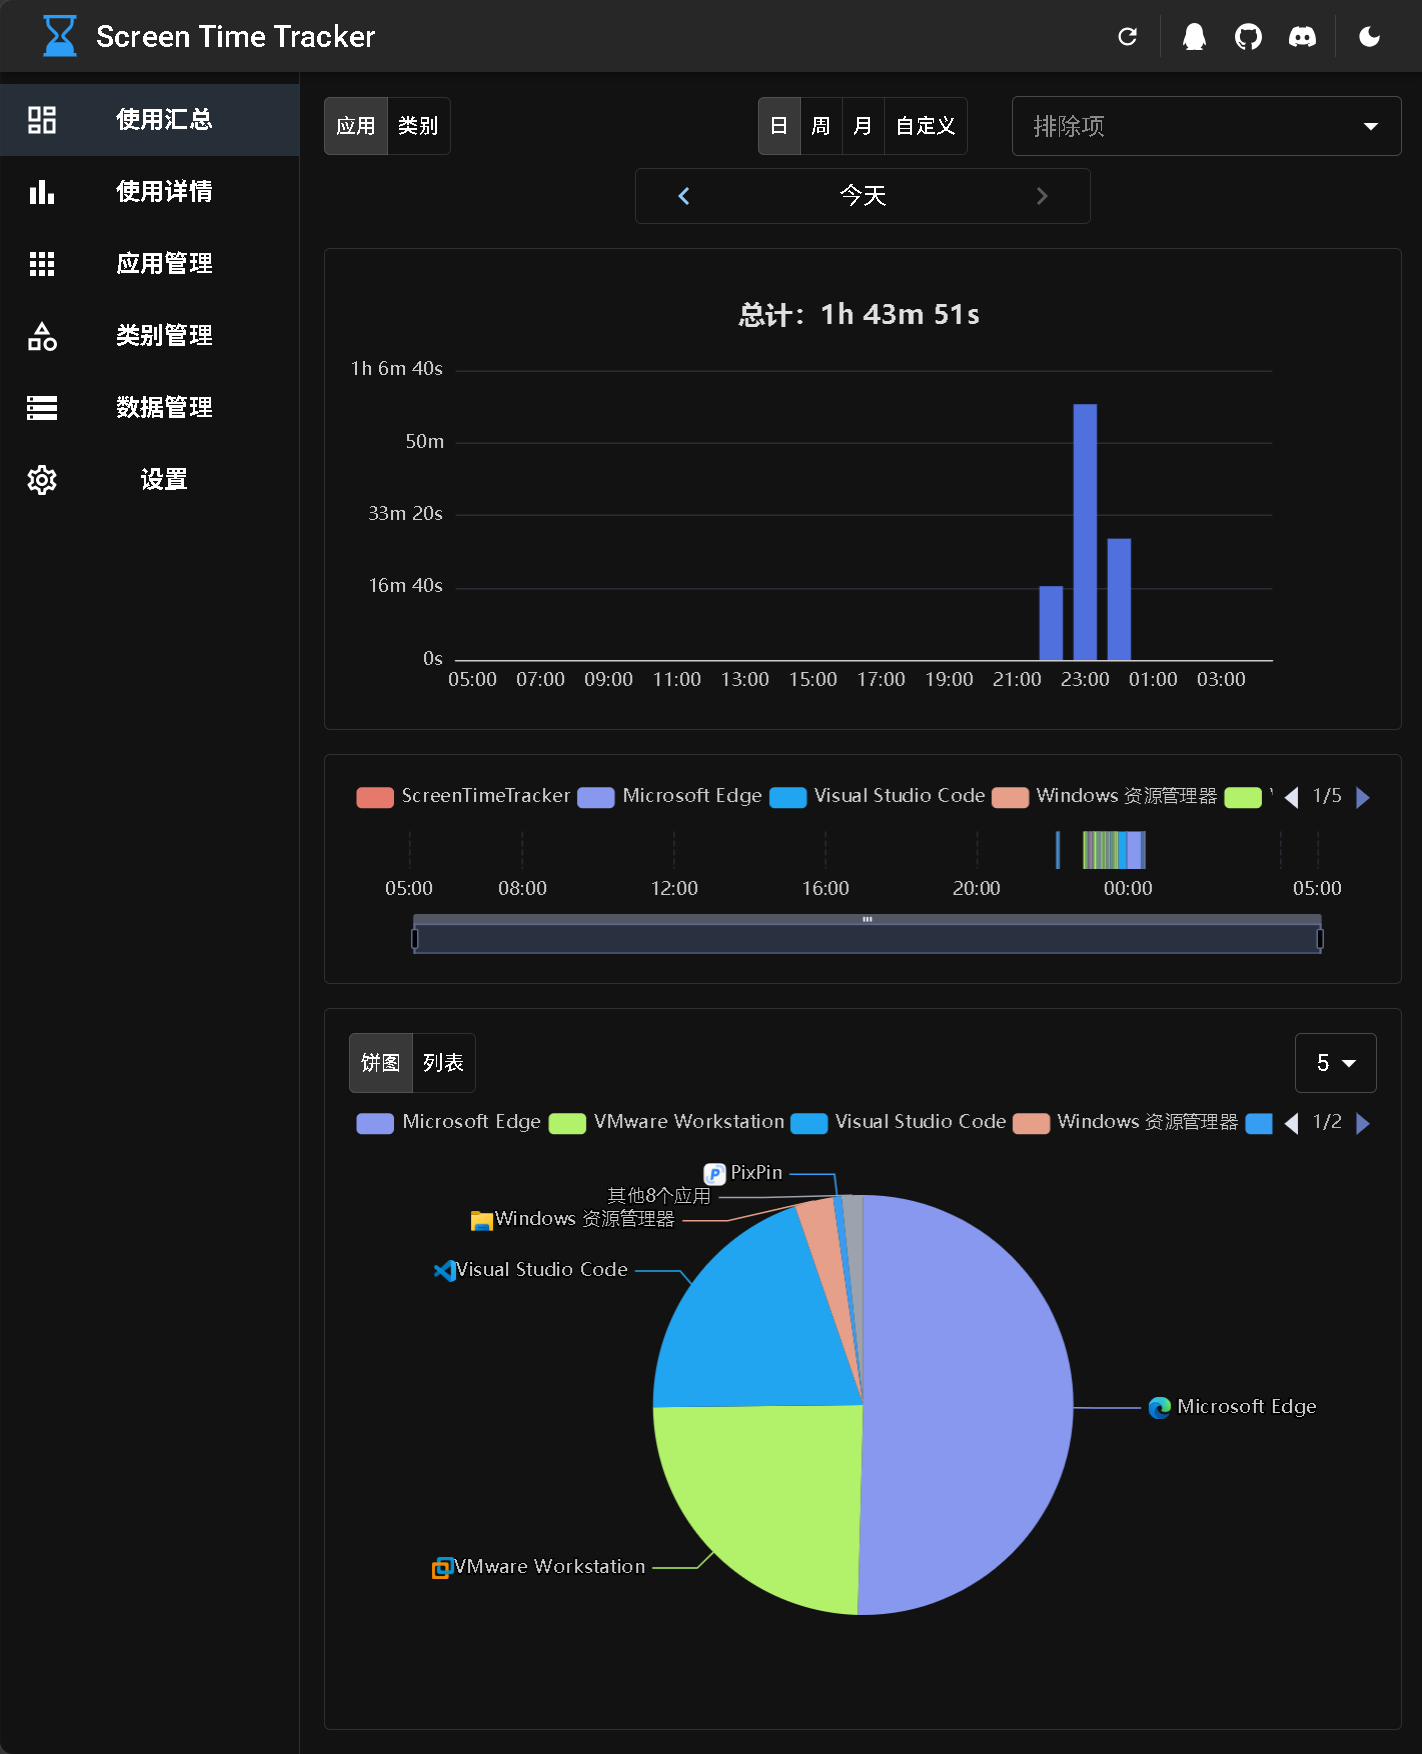
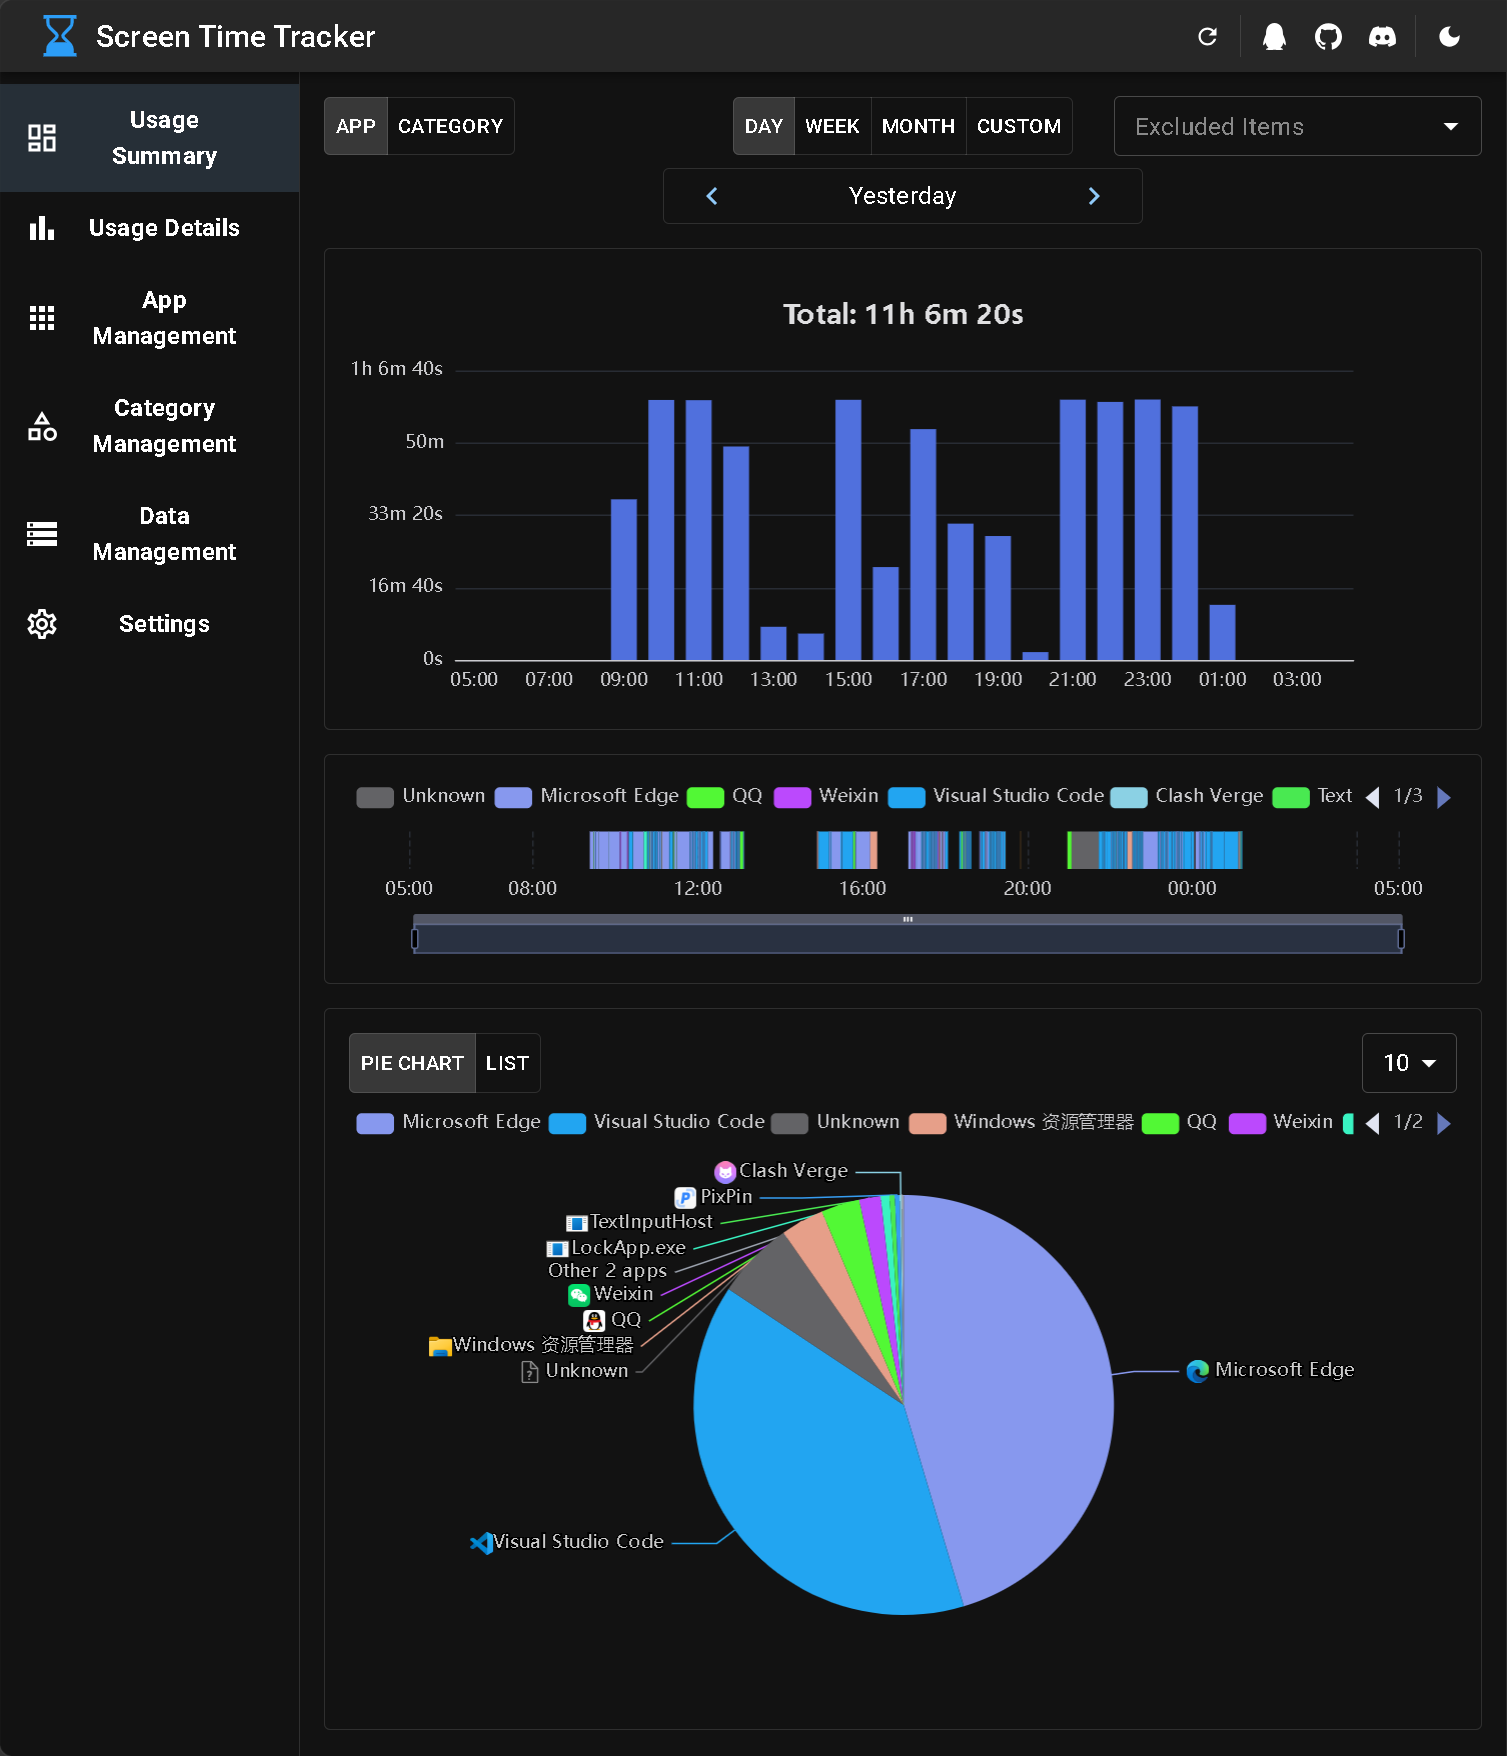
更新 README.md

diff --git a/README.md b/README.md
@@ -1,38 +1,53 @@
-# 屏幕使用时间  
+<div align="center">
 
-## 简介  
-一个电脑屏幕使用时间统计工具。
+# Screen Time Tracker
 
-![alt text](assets/screenshot1.png)
+**English** | [简体中文](README_zh-CN.md)
 
-## 联系方式
-QQ群：745018774
+[![Discord](https://img.shields.io/badge/Discord-Join%20Community-5865f2?style=flat&logo=discord)](https://discord.gg/PxqGwcsVuh) [![QQ Group](https://img.shields.io/badge/QQ%20Group-Join%20Group-1ebafc?style=flat&logo=qq)](https://qm.qq.com/q/uiwJZiQRAm)
 
-### 功能
-- 统计电脑上不同应用占据最上层窗口时的时间。
-- 开启空闲检测后可在长时间未操作时停止记录。
-- 支持自定义每天开始和结束的时间。
-- 展示数据时可排除指定程序/类别。。
-- 可以详细查看某程序/类别的使用情况
-- 可以查看某天使用情况的时间线。
-- 可方便的设置开机自启动。
+</div>
 
-## 开发
-+ 准备环境
-  + .NET SDK 10.0+
-  + Node.js 22.12.0+
-+ 克隆代码库：
+## Overview
+An intuitive and lightweight desktop screen time tracking tool designed to help you understand your computer usage habits, boost productivity, and maintain a healthy work-life balance.
+
+![Screen Time Tracker Screenshot 1](assets/screenshot1.png)
+![Screen Time Tracker Screenshot 2](assets/screenshot2.png)
+
+## Key Features
+- **Time Tracking**: Runs silently in the background, accurately recording the duration spent on each application.
+- **Visual Analytics**: Provides a rich variety of intuitive charts and statistics, allowing you to clearly understand your time distribution.
+- **Privacy First**: All data is stored locally and never uploaded to the cloud, guaranteeing your personal privacy.
+- **Lightweight & Efficient**: Ultra-low CPU and RAM usage, ensuring it won't impact your daily experience.
+- **Highly Configurable**: Offers detailed configuration options to cater to different user requirements.
+- **Multilingual Support**: Native support for both English and Simplified Chinese interfaces.
+
+## Download
+You can download the application from [Releases](https://github.com/majianchuan/ScreenTimeTracker/releases) or build it yourself.
+
+## Development
+- **Prerequisites**
+  - .NET SDK 10.0+
+  - Node.js 22.12.0+
+- **Clone Repository**:
   ```shell
-    git clone https://github.com/majianchuan/ScreenTimeTracker.git
+  git clone https://github.com/majianchuan/ScreenTimeTracker.git
   ```
-+ 构建界面库：
+- **Build Frontend**:
   ```shell
   cd src/frontend
   pnpm install
   pnpm build
   ```
-+ 启动应用：
+- **Run Application**:
   ```shell
   cd ../Hosts/Desktop
   dotnet run
   ```
+
+## Community & Feedback
+
+If you encounter any issues or have feedback and suggestions, feel free to join our community:
+
+- **Discord Community**: [Join Discord](https://discord.com/invite/PxqGwcsVuh)
+- **QQ Group**: [Join QQ Group](https://qm.qq.com/q/uiwJZiQRAm)

diff --git a/README_zh-CN.md b/README_zh-CN.md
@@ -1,0 +1,54 @@
+<div align="center">
+
+# Screen Time Tracker
+
+[English](README.md) | **简体中文**
+
+[![Discord](https://img.shields.io/badge/Discord-加入社区-5865f2?style=flat&logo=discord)](https://discord.gg/PxqGwcsVuh) [![QQ 群](https://img.shields.io/badge/QQ%20%E7%BE%A4-加入群聊-1ebafc?style=flat&logo=qq)](https://qm.qq.com/q/uiwJZiQRAm)
+
+</div>
+
+## 简介
+一款直观、轻量级的桌面端屏幕使用时间统计工具，助你掌握电脑使用习惯、提升工作效率，保持健康的工作与生活平衡。
+
+![Screen Time Tracker 截图1](assets/screenshot1_zh-CN.png)
+![Screen Time Tracker 截图2](assets/screenshot2_zh-CN.png)
+
+## 核心功能
+- **时长统计**：后台静默运行，精准记录各个软件的使用时长。
+- **可视化数据分析**：提供种类丰富且直观的时长统计图表，清晰掌握时间分配。
+- **注重隐私安全**：所有数据均存储在本地，不上传云端，保障个人隐私。
+-  **轻量高效**：极低占用内存与 CPU，不影响日常使用体验。
+-  **高度可配置**：提供了详细的配置选项，满足不同用户的需求。
+- **多语言支持**：原生支持中文与英文界面。
+
+## 下载
+您可以通过 [Releases](https://github.com/majianchuan/ScreenTimeTracker/releases) 下载软件或自行构建。
+
+## 开发
+- 准备环境
+  - .NET SDK 10.0+
+  - Node.js 22.12.0+
+- 克隆代码库：
+  ```shell
+    git clone https://github.com/majianchuan/ScreenTimeTracker.git
+  ```
+- 构建前端界面：
+  ```shell
+  cd src/frontend
+  pnpm install
+  pnpm build
+  ```
+- 启动应用：
+  ```shell
+  cd ../Hosts/Desktop
+  dotnet run
+  ```
+
+## 交流与反馈
+
+如果你在使用过程中遇到问题，或者有任何好的建议，欢迎加入我们的社群交流：
+
+- **Discord 社区**：[点击加入 Discord](https://discord.com/invite/PxqGwcsVuh)
+- **QQ 交流群**：[点击加入 QQ 群聊](https://qm.qq.com/q/uiwJZiQRAm)
+